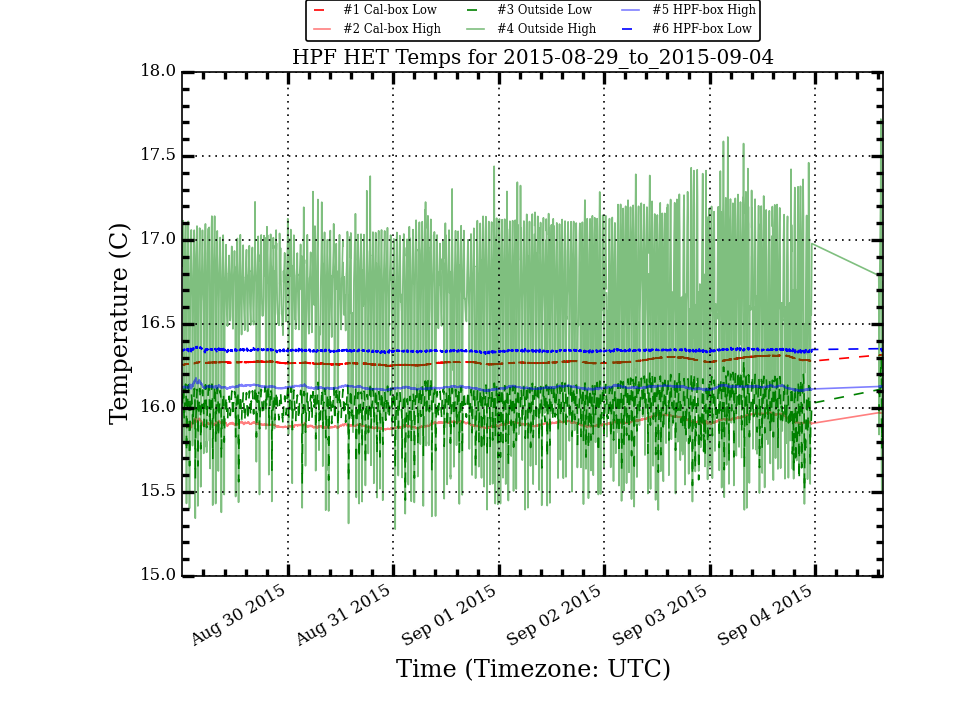
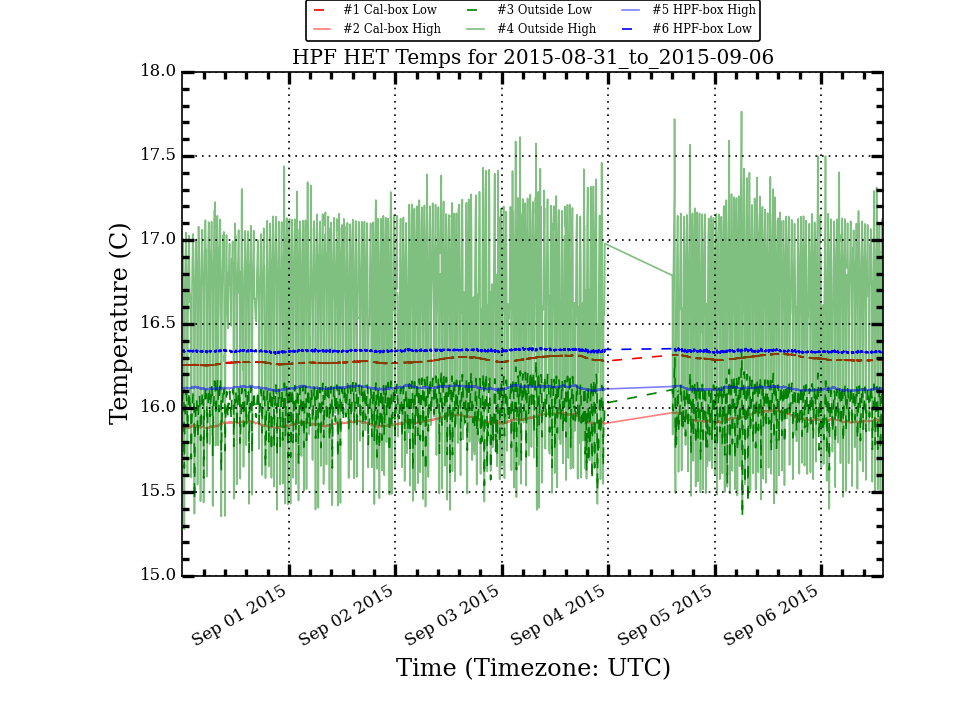
Update HPF Temp Plots

diff --git a/research/hpf_temps/plots/LakeShoreLogTotal_today_stats.html b/research/hpf_temps/plots/LakeShoreLogTotal_today_stats.html
@@ -10,56 +10,56 @@
  </TR>
  <TR>
   <TD>Cal_Low</TD>
-  <TD>16.315</TD>
-  <TD>0.001</TD>
-  <TD>16.315</TD>
-  <TD>16.317</TD>
-  <TD>16.314</TD>
+  <TD>16.286</TD>
   <TD>0.003</TD>
+  <TD>16.285</TD>
+  <TD>16.295</TD>
+  <TD>16.281</TD>
+  <TD>0.014</TD>
  </TR>
  <TR>
   <TD>Cal_High</TD>
-  <TD>15.971</TD>
-  <TD>0.001</TD>
-  <TD>15.971</TD>
-  <TD>15.974</TD>
-  <TD>15.969</TD>
-  <TD>0.005</TD>
+  <TD>15.924</TD>
+  <TD>0.007</TD>
+  <TD>15.924</TD>
+  <TD>15.940</TD>
+  <TD>15.911</TD>
+  <TD>0.029</TD>
  </TR>
  <TR>
   <TD>Out_Low</TD>
-  <TD>16.031</TD>
-  <TD>0.151</TD>
-  <TD>16.043</TD>
-  <TD>16.299</TD>
-  <TD>15.763</TD>
-  <TD>0.536</TD>
+  <TD>16.011</TD>
+  <TD>0.091</TD>
+  <TD>16.025</TD>
+  <TD>16.161</TD>
+  <TD>15.631</TD>
+  <TD>0.530</TD>
  </TR>
  <TR>
   <TD>Out_High</TD>
-  <TD>16.591</TD>
-  <TD>0.541</TD>
-  <TD>16.586</TD>
-  <TD>17.720</TD>
-  <TD>15.493</TD>
-  <TD>2.227</TD>
+  <TD>16.583</TD>
+  <TD>0.463</TD>
+  <TD>16.736</TD>
+  <TD>17.499</TD>
+  <TD>15.400</TD>
+  <TD>2.099</TD>
  </TR>
  <TR>
   <TD>HPF_High</TD>
-  <TD>16.129</TD>
-  <TD>0.002</TD>
-  <TD>16.128</TD>
-  <TD>16.133</TD>
-  <TD>16.126</TD>
-  <TD>0.007</TD>
+  <TD>16.110</TD>
+  <TD>0.005</TD>
+  <TD>16.109</TD>
+  <TD>16.127</TD>
+  <TD>16.101</TD>
+  <TD>0.026</TD>
  </TR>
  <TR>
   <TD>HPF_Low</TD>
-  <TD>16.351</TD>
-  <TD>0.005</TD>
-  <TD>16.352</TD>
-  <TD>16.358</TD>
-  <TD>16.340</TD>
+  <TD>16.333</TD>
+  <TD>0.003</TD>
+  <TD>16.333</TD>
+  <TD>16.343</TD>
+  <TD>16.325</TD>
   <TD>0.018</TD>
  </TR>
 </TABLE>

diff --git a/research/hpf_temps/plots/LakeShoreLogTotal_week_stats.html b/research/hpf_temps/plots/LakeShoreLogTotal_week_stats.html
@@ -10,56 +10,56 @@
  </TR>
  <TR>
   <TD>Cal_Low</TD>
-  <TD>16.275</TD>
-  <TD>0.015</TD>
-  <TD>16.271</TD>
-  <TD>16.317</TD>
-  <TD>16.250</TD>
-  <TD>0.067</TD>
+  <TD>16.286</TD>
+  <TD>0.018</TD>
+  <TD>16.285</TD>
+  <TD>16.323</TD>
+  <TD>16.252</TD>
+  <TD>0.071</TD>
  </TR>
  <TR>
   <TD>Cal_High</TD>
-  <TD>15.912</TD>
-  <TD>0.023</TD>
-  <TD>15.909</TD>
-  <TD>15.974</TD>
-  <TD>15.869</TD>
-  <TD>0.105</TD>
+  <TD>15.926</TD>
+  <TD>0.025</TD>
+  <TD>15.921</TD>
+  <TD>15.987</TD>
+  <TD>15.877</TD>
+  <TD>0.110</TD>
  </TR>
  <TR>
   <TD>Out_Low</TD>
-  <TD>16.019</TD>
-  <TD>0.100</TD>
-  <TD>16.030</TD>
-  <TD>16.299</TD>
-  <TD>15.452</TD>
-  <TD>0.847</TD>
+  <TD>16.022</TD>
+  <TD>0.108</TD>
+  <TD>16.036</TD>
+  <TD>16.351</TD>
+  <TD>15.348</TD>
+  <TD>1.003</TD>
  </TR>
  <TR>
   <TD>Out_High</TD>
-  <TD>16.619</TD>
-  <TD>0.441</TD>
-  <TD>16.734</TD>
-  <TD>17.720</TD>
+  <TD>16.617</TD>
+  <TD>0.474</TD>
+  <TD>16.735</TD>
+  <TD>17.765</TD>
   <TD>15.279</TD>
-  <TD>2.441</TD>
+  <TD>2.486</TD>
  </TR>
  <TR>
   <TD>HPF_High</TD>
-  <TD>16.123</TD>
-  <TD>0.009</TD>
-  <TD>16.123</TD>
-  <TD>16.178</TD>
+  <TD>16.119</TD>
+  <TD>0.008</TD>
+  <TD>16.120</TD>
+  <TD>16.140</TD>
   <TD>16.100</TD>
-  <TD>0.078</TD>
+  <TD>0.040</TD>
  </TR>
  <TR>
   <TD>HPF_Low</TD>
-  <TD>16.342</TD>
+  <TD>16.340</TD>
   <TD>0.006</TD>
-  <TD>16.342</TD>
-  <TD>16.366</TD>
+  <TD>16.340</TD>
+  <TD>16.363</TD>
   <TD>16.321</TD>
-  <TD>0.045</TD>
+  <TD>0.042</TD>
  </TR>
 </TABLE>

diff --git a/research/hpf_temps/plots/LakeShoreLogTotal_stats.html b/research/hpf_temps/plots/LakeShoreLogTotal_stats.html
@@ -10,54 +10,54 @@
  </TR>
  <TR>
   <TD>Cal_Low</TD>
-  <TD>16.435</TD>
-  <TD>0.319</TD>
-  <TD>16.415</TD>
+  <TD>16.434</TD>
+  <TD>0.318</TD>
+  <TD>16.410</TD>
   <TD>18.195</TD>
   <TD>15.882</TD>
   <TD>2.313</TD>
  </TR>
  <TR>
   <TD>Cal_High</TD>
-  <TD>16.094</TD>
-  <TD>0.351</TD>
-  <TD>16.069</TD>
+  <TD>16.092</TD>
+  <TD>0.350</TD>
+  <TD>16.064</TD>
   <TD>18.238</TD>
   <TD>15.470</TD>
   <TD>2.768</TD>
  </TR>
  <TR>
   <TD>Out_Low</TD>
-  <TD>16.165</TD>
-  <TD>0.382</TD>
-  <TD>16.180</TD>
+  <TD>16.163</TD>
+  <TD>0.381</TD>
+  <TD>16.175</TD>
   <TD>17.654</TD>
   <TD>15.121</TD>
   <TD>2.533</TD>
  </TR>
  <TR>
   <TD>Out_High</TD>
-  <TD>16.966</TD>
-  <TD>0.468</TD>
-  <TD>17.041</TD>
+  <TD>16.963</TD>
+  <TD>0.469</TD>
+  <TD>17.038</TD>
   <TD>18.676</TD>
   <TD>14.886</TD>
   <TD>3.790</TD>
  </TR>
  <TR>
   <TD>HPF_High</TD>
-  <TD>16.247</TD>
+  <TD>16.246</TD>
   <TD>0.217</TD>
-  <TD>16.343</TD>
+  <TD>16.341</TD>
   <TD>17.011</TD>
   <TD>15.879</TD>
   <TD>1.132</TD>
  </TR>
  <TR>
   <TD>HPF_Low</TD>
-  <TD>16.446</TD>
-  <TD>0.214</TD>
-  <TD>16.540</TD>
+  <TD>16.445</TD>
+  <TD>0.213</TD>
+  <TD>16.539</TD>
   <TD>17.188</TD>
   <TD>16.096</TD>
   <TD>1.092</TD>
